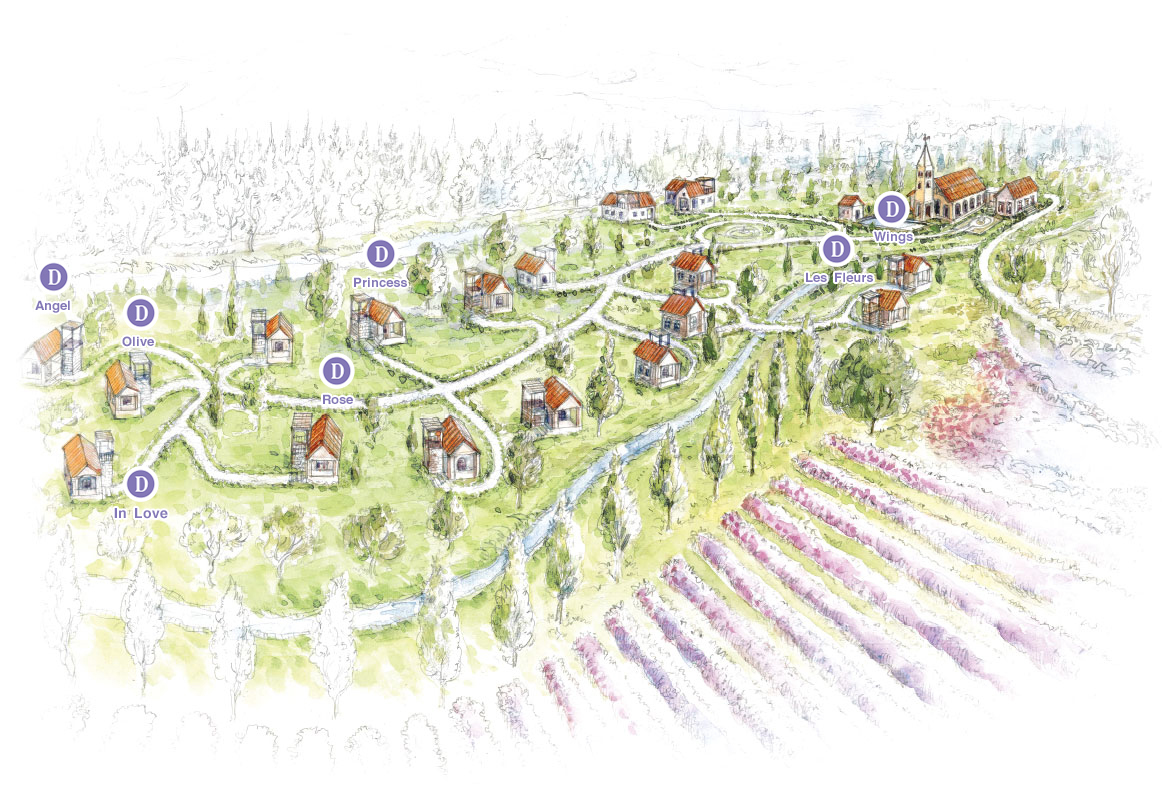
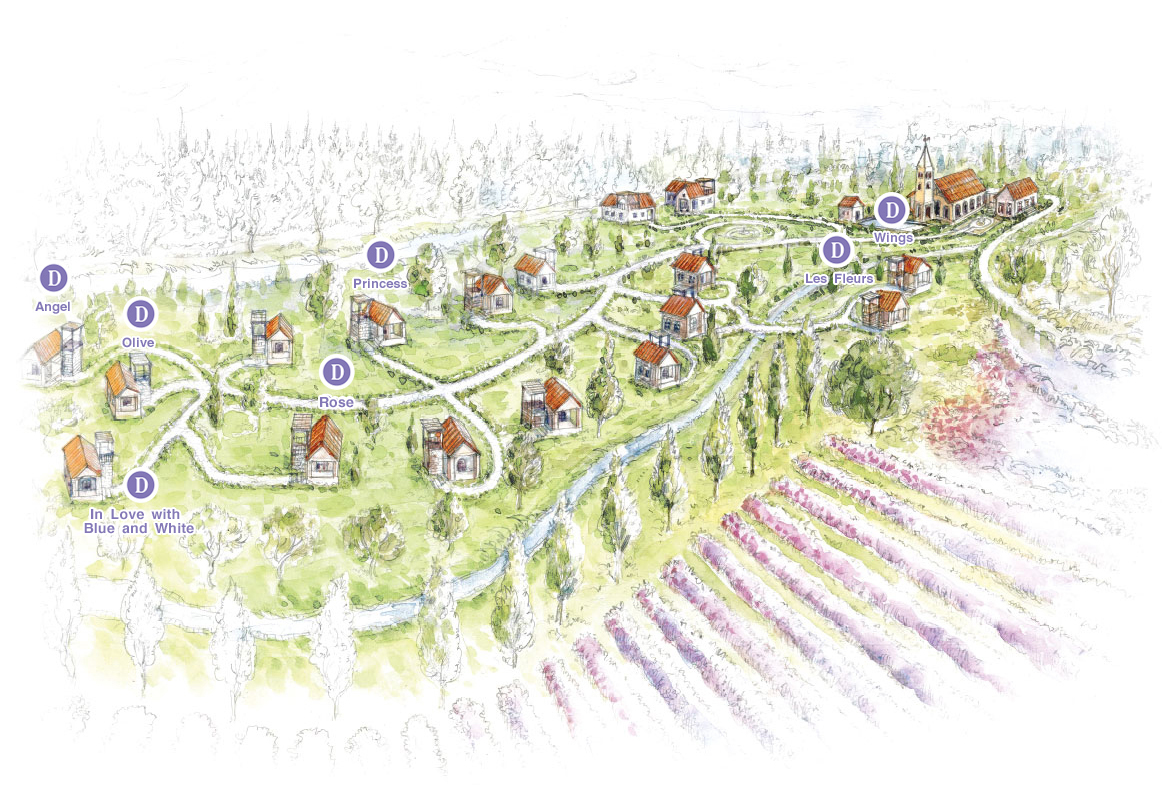
text

diff --git a/deluxe-villa.php b/deluxe-villa.php
@@ -49,9 +49,7 @@
 	       
 			        <p>
 				        
-	Located next to flower field,all Deluxe Villars of50 sqm
-	are built with upper-deck,front
-balconyand French window opens to living area. Each villa decorated in vintage style. </p>
+	Located next to flower field, all Deluxe Villas of 50 sqm. are built with upper-deck, front terrace and doors open to living area.  All villas decorated in vintage style and offer a closer touch of nature. </p>
 	
 
 
@@ -71,18 +69,15 @@ balconyand French window opens to living area. Each villa decorated in vintage s
 	        	<h5>A Delux Villa consists of ;</h5>
 	        	
 <br>-	A queen-sized bed
-<br>-	Bathroom with bathtub
+<br>-	Front terrace and upper-deck with wooden bench
+<br>-	Living area with day-bed size 80 x 180 cm.
+<br>-	Bathroom with bathtub, hot water and full amenities
+<br>-	LED TV 32"
 <br>-	Safety deposit box with torch light
-<br>-	Sofa bed size 80 x 180 cm 
-<br>-	A terrace with sitting area
-<br>-	An upper-deck
-<br>-	Coffee and tea making facilities
-<br>-	LED 32” TV 
-<br>-	A refrigerator 
+<br>-	Coffee and tea making facilities, refrigerator
 <br>-	Air-condition
 <br>-	Free wifi
-	        	
-	        	
+	
 	        	
 				        </div>
 				        <div class="clearfix"></div>
@@ -204,7 +199,7 @@ balconyand French window opens to living area. Each villa decorated in vintage s
 
 			     <div class="block-list-wrapper">
 			        <div class="block">
-				        <h2 id="inlove">In Love</h2>
+				        <h2 id="inlove">In Love with Blue and White</h2>
 				        <ul class="cgroup"> 
 					        <li><a href="pic-room/12_house.jpg"><img src="pic-room/12_house1.jpg"></a></li>
 					        <li><a href="pic-room/12_front.jpg"><img src="pic-room/12_front1.jpg"></a></li>

diff --git a/superior-villa.php b/superior-villa.php
@@ -65,28 +65,21 @@
 	        	
 	        	
 	        	
+
+
+	        	
 	        	<h5>A Superior Villa consists of ;</h5>
 	        	
 <br>-	A queen-sized bed
-<br>-	Bedside tables with lamps
-<br>-	Bathroom with head shower 
-	<br>&nbsp;&nbsp;and hot water (in shower area only) 
-<br>-	Washbasin and toilet
-<br>-	Wardrope with bathrobes, slippers, 
-	<br>&nbsp;&nbsp;hangers and two umbrellas
-<br>-	Torch light
-<br>-	Safety box
-<br>-	Sofa bed size 80 x 180 cm 
-<br>-	One coffee table
-<br>-	A terrace with sitting area
-<br>-	An upper-deck
-<br>-	Coffee and tea making facilities
-<br>-	LED 32” TV 
-<br>-	A refrigerator with complimentary 
-	<br>&nbsp;&nbsp;drinking water
-<br>-	Air-condition
+<br>-   Front terrace and upper-deck with wooden bench
+<br>-	Living area with day-bed size 80 x 180 cm. 
+<br>-	Bathroom with shower, hot water and full amenities
+<br>-	LED TV 32"
+<br>-	Safety deposit box with torch light
+<br>-	Coffee and tea making facilities, refrigerator
+<br>-	Air-conditioning 
 <br>-	Free wifi
-	        	
+
 	        	
 	        	
 				        </div>
